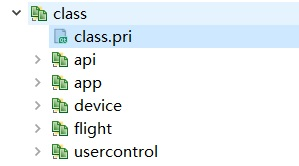
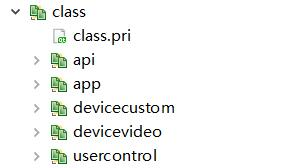
更新说明

diff --git a/snap_video_system/readme.md b/snap_video_system/readme.md
@@ -578,11 +578,9 @@ void QUIStyle::getStyle(QStringList &styleNames, QStringList &styleFiles)
 本系统中将视频显示这块都封装成了一个控件，每个视频控件都有自己独立的悬浮条，悬浮条的位置可以自行修改两三行代码调整，默认悬浮条在顶部，自动拉伸填充显示，你也可以改成左侧右侧等位置显示，高度可调。悬浮条是一排按钮组成，具体按钮什么名称标识符和功能，可以自定义，控件的封装只是默认放了一排按钮，除了关闭按钮实现了功能外，其余都是信号的形式发出去的，具体操作由程序员本身根据不同的厂家来定义不同的功能。
 
 ### 2.14 标签设置
- ![](snap/2-14-1.jpg)
-
 视频控件已经将OSD标签封装好了，默认提供两路OSD设置，每个OSD都可以设置是否启用、位置、文字内容、文字颜色、图片、文字大小等，这些设置都提供了友好的接口设置。
 
-在frmvideopanel.cpp文件中有设置示例，默认注释的，参数含义如下：
+在devicevideosmart.cpp文件中有设置示例，默认注释的，参数含义如下：
 
 1. 设置标签可见：setOSD1Visible
 2. 设置文字大小：setOSD1FontSize
@@ -592,6 +590,13 @@ void QUIStyle::getStyle(QStringList &styleNames, QStringList &styleFiles)
 6. 设置标签位置：setOSD1Position
 
 ```cpp
+widget->setOSD1Visible(true);
+widget->setOSD1FontSize(20);
+widget->setOSD1Text(QString("当前人数: %1").arg(10));
+widget->setOSD1Color(QColor("#D64D54"));
+widget->setOSD1Format(0);
+widget->setOSD1Position(1);
+        
 enum OSDFormat {
     OSDFormat_Text = 0,             //文本
     OSDFormat_Date = 1,             //日期
@@ -1464,10 +1469,8 @@ void DbHelper::getDbDefaultInfo(const QString &dbType, QString &hostPort,
 
 专为无人机打造的模块，也可以作为机器人移动模块，通过传入一个经纬度值，实时更新设备的位置和绘制轨迹，模块已经内置了接口进行处理，支持不同设备不同的轨迹颜色（这个功能好）。
 
-### 9.10 飞行监控
- ![](snap/9-10-1.jpg)
-
-目前放置的是6个飞行套装控件（代码中有8个可以自行添加修改），默认定时器模拟数据，可以自行传入真实的数据会自动显示值。2022年已将此模块移除独立，并不在此系统中。
+### 9.10 备用模块
+此模块留给用户自行填入内容。
 
 ### 9.11 数据调试
  ![](snap/9-11-1.jpg)
@@ -1576,17 +1579,15 @@ void DbHelper::getDbDefaultInfo(const QString &dbType, QString &hostPort,
 | :------ | :------ |
 | api | 存放数据库表映射成对应的全局队列数据、通用的辅助函数类。 |
 | app | 全局配置参数管理类、秘钥管理类、通用函数。 |
-| device | 设备通信管理，比如机器人通信、无人机通信、人工智能处理等。|
-| flight | 飞行套件控件集合。 |
-| usercontrol | 当前系统的自定义控件全部放在这里，其中包括云台仪表盘、通用视频监控等控件。 |
+| devicecustom | 用户自定义设备通信管理，比如机器人通信、无人机通信等。|
+| devicevideo | 视频监控相关处理类，包括设备地图、表格消息、线程UI通信、人工智能处理等。 |
+| usercontrol | 当前系统的自定义控件全部放在这里，其中包括云台仪表盘、天气面板等控件。 |
 
 ##### 11.3.2.1 模块-api
 | 名称 | 说明 |
 | :------ | :------ |
 | dbdata | 将数据库表映射到全局变量数据队列，比如将摄像机表ipcinfo转成QStringList存放一行行数据，这样在程序中运算比较速度极快，直接内存比较，不用每次都去读取数据库。 |
 | dbquery | 所有的数据库查询插入更新等操作都在这里，比如查询摄像机表、插入日志记录等。 |
-| savelog | 日志钩子类，将系统中所有的打印信息转为日志存储或者输出到网络等，本系统目前没有用到，后期可以开启用来打印输出日志信息。 |
-| saveruntime | 保存运行时间类，用来存储系统启动后每隔一段时间就输出一条记录用来记录启动后软件运行了多久，方便分析问题。 |
 
 ##### 11.3.2.2 模块-app
 | 名称 | 说明 |
@@ -1594,45 +1595,46 @@ void DbHelper::getDbDefaultInfo(const QString &dbType, QString &hostPort,
 | appconfig | 配置参数类，整个系统的配置参数存放在ini文件中，跨平台，所有参数都对应一个变量，读取配置参数的时候将值赋值给变量，写入的时候将变量值写入到配置文件。 |
 | appdata | 全局变量类，系统中无可避免需要一些全局变量方便处理，都放在此类，比如版本号、录像机类型、摄像机类型、当前用户信息、地图宽度高度、左侧右侧顶部底部宽高等。 |
 | appevent | 全局事件转发类，系统越复杂信号需要传递的层级越多，所以需要一个全局事件转发类，用来中转这些事件，这样永远只需要两层就可以收到信号进行处理，而且整个系统看起来干净整洁，不会说一个信号传递到了N个地方乱七八糟，建议需要跨层级传递的信号都放在这里中转。比如软件退出信号，可能多个界面需要收到退出信号进行保存和其他处理，如果从关闭界面发出信号传递给需要的界面，那不知道要中间层层传递多少次，有了这个全局事件转发类，你只需要将事件传给appevent，需要接收事件的地方关联这个信号就行，appevent为全局单例类，整个系统唯一。通用的一些信号有软件退出、全局样式改变、主窗体变化（0-最小化 1-最大化 2-恢复 3-关闭 4-移动 5-尺寸变化）等。 |
-| appfun | 通用辅助函数处理，比如系统重启、导入导出数据、校验权限等。 |
 | appinit | 程序初始化类，在main函数中，会先执行这个初始化的类，比如初始化皮肤、字体、数据库、样式等操作，这些都是要优先在窗体加载前执行的，执行完毕以后再打开窗体主界面。 |
-| appkey | 秘钥管理类，指定校验秘钥文件，可设置运行时间、设备数量等限制，支持根据硬件指纹特征生成机器码文件等。 |
-| appnav | 菜单导航管理类，用来控制和显示顶部导航栏、左侧导航栏的样式。很多子界面需要用到，所以封装成一个专门管理这个的类。 |
 | appstyle | 全局样式管理类，整个系统的样式全部放在这里，一般加载流程是先读取样式表文件，然后将本系统独特的样式（比如开关按钮、视频监控、云台仪表盘）内容追加到后面，最后统一设置全局样式，在main函数中加载，和appinit类一样放在最前面执行。 |
+| appurl | 视频监控系统中常用的默认的视频地址集合。 |
 
-##### 11.3.2.3 模块-device
+##### 11.3.2.3 模块-devicecustom
+| 名称 | 说明 |
+| :------ | :------ |
+| devicerobot | 机器人串口通信管理类。 |
+| devicerobot2 | 机器人串口通信管理类2，有串口数据转发功能。 |
+| deviceuavsserver | 无人机后端服务类，当前为空，用户自己添加。 |
+| deviceuavsvideo | 无人机视频监控类，将视频控件设置过来，然后就可以将自己人工智能算法处理后的图片传过来进行绘制，类似于实时视频效果。 |
+
+##### 11.3.2.4 模块-devicevideo
 | 名称 | 说明 |
 | :------ | :------ |
 | devicehelper | 整个系统设备管理辅助类，比如插入窗口消息、加载设备列表、加载图片地图、加载设备按钮、初始化视频控件等。 |
 | devicemap | 设备图片地图管理类，相当于一次性加载所有图片到内存，当要切换或者显示的时候，直接从内存取出来设置即可，速度极快，瞬间相应，纯粹是为了加快相应速度以及可能在图片上进行绘制增加的功能，比从文件系统读取图片文件显示快N倍。 |
 | deviceonvif | 设备onvif通信管理类，比如获取当前选中通道的onvif地址、开启事件订阅、校对时间、重启设备、获取视频参数、设置视频参数、云台控制等，这里是具体的需要和摄像机信息表及视频通道关联的处理，所以不能放到通用的onvif模块中。 |
-| devicerobot | 机器人串口通信管理类。 |
-| devicerobot2 | 机器人串口通信管理类2，有串口数据转发功能。 |
-| devicesmart | 人工智能处理类，最常见的应用就是设置一个视频控件，然后在视频控件上绘制人脸框、文字信息等，比如设备的实时运行状态。 |
-| deviceuavsvideo | 无人机视频监控类，将视频控件设置过来，然后就可以将自己人工智能算法处理后的图片传过来进行绘制，类似于实时视频效果。 |
-
-##### 11.3.2.4 模块-flight
-飞控套件集合，具体代码不做过多说明，目前是独立模块，具体可购买自定义控件大全参见演示示例。
+| devicethreadui | 演示线程通知UI更新，包括每隔一段时间插入消息、异步调用添加表格消息和图文警情、设备GPS移动、报警闪烁、指定通道编号设置视频和通道交换等。 |
+| devicevideosmart | 人工智能处理类，最常见的应用就是设置一个视频控件，然后在视频控件上绘制人脸框、文字信息等，比如设备的实时运行状态。 |
 
 ##### 11.3.2.5 模块-usercontrol
 | 名称 | 说明 |
 | :------ | :------ |
 | gaugecloud | 云台仪表盘控件。 |
-| squarelayout | 正方形布局控件，所有飞机控件都需要用这个布局，不然控件拉伸扁平很难看。 |
-| videobox | 视频监控盒子控件，用于统一管理视频监控主界面，包括通道切换等。 |
-| videoplayback | 视频回放控件。 |
-| videowidget | 通用视频播放控件。 |
+| cityhelper | 省市县联动类，通过从json文件读取省市县信息。 |
+| weather | 城市天气类，最后显示在标题栏上，实时显示设置的城市的最近几天的天气。 |
 | widgetsound | 声音面板控件，主界面右下角单击弹出音量条。 |
 
 #### 11.3.3 核心通用类库
  ![](snap/11-3-3-1.jpg)
 
 这里放的全部是个人一直持续更新完善的独创的轮子，所有的项目都公用这些轮子，用到哪个就包含哪个进来，更新只需要更新轮子代码就行。
+
 视频监控系统包含的轮子超级丰富给力，物超所值，涵盖了数据导出模块、数据库应用、视频监控、ONVIF通信、TCP文件传输、地图应用、通用浏览器内核等。
 
 | 名称 | 说明 |
 | :------ | :------ |
-| core_control | 通用自定义控件，很多系统经常用到的控件全部放在这里。 |
+| core_common | 通用函数，包括通用秘钥、通用导航、通用样式、声音播放、日志记录、运行时间记录等。 |
+| core_control | 通用自定义控件，很多系统经常用到的控件全部放在这里，比如开关按钮、设备容器、设备按钮、颜色下拉框等。 |
 | core_dataout | 数据导入导出到xls/pdf和打印类库，极速、跨平台、无依赖。 |
 | core_db | 数据库通用类库比如数据库线程管理、数据清理、数据采集等。 |
 | core_ffmpeg | 视频监控内核ffmpeg版本，本系统默认采用的内核。 |
@@ -1647,21 +1649,32 @@ void DbHelper::getDbDefaultInfo(const QString &dbType, QString &hostPort,
 | core_video | 通用的视频监控管理类，封装了通用的视频控件和多通道统一管理。 |
 | core_webview | 通用浏览器控件类，同时支持webkit、wenengine、miniblink三种内核，打通了所有的Qt版本。 |
 
-##### 11.3.3.1 模块-core_control
+##### 11.3.3.1 模块-core_common
+| 名称 | 说明 |
+| :------ | :------ |
+| base64helper | 图片及文字和base64编码之间转换的类。 |
+| commonkey | 通用秘钥管理类，指定校验秘钥文件，可设置运行时间、设备数量等限制，支持根据硬件指纹特征生成机器码文件等。 |
+| commonnav | 通用菜单导航管理类，用来控制和显示顶部导航栏、左侧导航栏的样式。很多子界面需要用到，所以封装成一个专门管理这个的类。 |
+| commonstyle | 通用样式管理类，比如Qt自带类窗体样式、自定义控件样式、分页导航样式、导航按钮样式、开关按钮样式等。相当于将多个项目常用的自定义样式封装一起做成通用。 |
+| framelesswidget2 | 无边框窗体拉伸类，边框四周八个方位都可以自由拉伸，可设置是否允许拖动和拉伸。 |
+| playwav | 声音文件播放类，通用Qt456，自动识别当前Qt版本使用对应的类，Qt4采用QSound，Qt5以上采用QSoundEffect，嵌入式采用对应的命令行aplay、mpv来播放。 |
+| savelog | 日志钩子类，将系统中所有的打印信息转为日志存储或者输出到网络等，可以开启用来打印输出日志信息。 |
+| saveruntime | 保存运行时间类，用来存储系统启动后每隔一段时间就输出一条记录用来记录启动后软件运行了多久，方便分析问题。 |
+
+##### 11.3.3.2 模块-core_control
 | 名称 | 说明 |
 | :------ | :------ |
 | bottomwidget | 通用底部状态栏控件，可以设置软件名称、版本号、运行时间等。 |
 | colorcombobox | 颜色下拉框控件，在系统设置中有。 |
 | cpumemorylabel | CPU和内存使用情况标签控件，主界面右上角显示。 |
 | customtitlebar | 停靠窗体自定义标题栏控件。 |
-| devicebutton | 设备按钮控件，比如图片地图模块中用到，可设置不同的图标样式和状态等，双击发出信号进行相应处理比如弹出对应视频预览等。 |
-| framelesswidget | 无边框窗体管理类，无边框拖动+拉伸，主界面就用到了这个类。 |
+| devicebutton | 设备按钮控件，比如图片地图模块中用到，可设置不同的图标样式和状态等，双击发出信号进行相应处理比如弹出对应窗体等。 |
 | lcddatetime | 软件右上角显示时间的控件。 |
 | panelwidget | 面板容器控件，主界面子模块表格消息，就用到此控件，用于将一堆widget放到此容器进行管理，自动形成滚动条等。 |
 | switchbutton | 开关按钮控件，在系统设置中存在大量该控件。 |
 | xslider | 滑动条控件，在原有滑动条基础上增加了鼠标按下立即定位等。 |
 
-##### 11.3.3.2 模块-core_dataout
+##### 11.3.3.3 模块-core_dataout
 | 名称 | 说明 |
 | :------ | :------ |
 | datacreat | 通用数据报表内容创建类，比如生成表格格式的html内容，然后赋值给dataprint直接打印，里面举例了图文混排的报告内容，后期会不断增加其他模板，也可以自行增加其他模板数据。 |
@@ -1671,7 +1684,7 @@ void DbHelper::getDbDefaultInfo(const QString &dbType, QString &hostPort,
 | dataprint | 数据打印到pdf及纸张，支持多线程。 |
 | dataxls | 数据导出到xls类，支持多线程导出。 |
 
-##### 11.3.3.3 模块-core_db
+##### 11.3.3.4 模块-core_db
 | 名称 | 说明 |
 | :------ | :------ |
 | dbcleanthread | 自动清理数据线程类。 |
@@ -1684,7 +1697,7 @@ void DbHelper::getDbDefaultInfo(const QString &dbType, QString &hostPort,
 | dbpagemodel | 数据库翻页类数据模型。 |
 | navpage | 分页导航控件。 |
 
-##### 11.3.3.4 模块-core_ffmpeg
+##### 11.3.3.5 模块-core_ffmpeg
 | 名称 | 说明 |
 | :------ | :------ |
 | ffmpegconvert | 各种转换处理函数封装。 |
@@ -1696,14 +1709,14 @@ void DbHelper::getDbDefaultInfo(const QString &dbType, QString &hostPort,
 | ffmpegwidget | 视频显示窗体类，解码后到这里显示，依赖ffmpegthread。 |
 | videoffmpeg | 多通道管理类。 |
 
-##### 11.3.3.5 模块-core_map
+##### 11.3.3.6 模块-core_map
 | 名称 | 说明 |
 | :------ | :------ |
 | echartjs | echart模块中用到的json文件转js文件，获取js文件中的名字和经纬度等处理。 |
 | echarts | echart封装类，可加载仪表盘、闪烁点图、迁徙图、世界地图、区域地图等，每个点可自定义颜色和提示信息等。 |
 | mapbaidu | 百度地图封装类，支持在线和离线两种模式。 |
 
-##### 11.3.3.6 模块-core_onvif
+##### 11.3.3.7 模块-core_onvif
 | 名称 | 说明 |
 | :------ | :------ |
 | onvifbase | 基础类，用于获取设备信息、服务文件地址、能力文件地址、媒体文件地址、视频流地址等。 |
@@ -1720,7 +1733,7 @@ void DbHelper::getDbDefaultInfo(const QString &dbType, QString &hostPort,
 | onvifservices | 服务类，用于获取媒体地址、云台地址等。 |
 | onvifsnap | 图片抓拍实现类，包括获取抓图地址、抓拍图片等。 |
 
-##### 11.3.3.7 模块-core_opengl
+##### 11.3.3.8 模块-core_opengl
 | 名称 | 说明 |
 | :------ | :------ |
 | openglhead | 当前组件通用头文件。 |
@@ -1729,22 +1742,52 @@ void DbHelper::getDbDefaultInfo(const QString &dbType, QString &hostPort,
 | yuvglwidget | 继承自QGLWidget的YUV格式OPENGL绘制窗体。 |
 | yuvopenglwidget | 继承自QOpenGLWidget的YUV格式OPENGL绘制窗体。 |
 
-##### 11.3.3.8 模块-core_qui
+##### 11.3.3.9 模块-core_form
+ ![](snap/8-3-3-6.jpg)
+
 | 名称 | 说明 |
 | :------ | :------ |
-| iconfont | 图形字体类，对应阿里巴巴的图形字体文件，系统中大量运用，将字体中的值转成图片显示。 |
-| iconhelper | 图形字体类，对应国际开源的fontawesome图形字体。 |
+| formhelper | 封装的导入导出、导出数据到xls/pdf和打印数据、自动备份数据、保存最后打开的文件夹等。 |
+| frmconfigdb | 通用数据库管理界面类，可选不同的数据库类型，填入用户信息，执行检测连接和初始化数据操作。 |
+| frmconfiguser | 通用用户管理界面类，可添加、删除、修改用户信息，包括权限分配等，可导入导出打印用户信息。 |
+| frmlogin | 通用用户登录界面类，包括自动登录和记住密码复选框，多次密码错误校验，记住当前用户信息等。三次错误关闭，下拉可选用户，内置超级密码。 |
+| frmlogout | 通用用户退出界面类，三次错误关闭，下拉可选用户，内置超级密码。 |
+| userhelper | 通用用户权限管理类，内置7种类型权限，对应权限名称可自定义，一般在用户切换对应界面或者单击了对应功能按钮的时候触发。 |
+
+##### 11.3.3.10 模块-core_qui
+ ![](snap/8-3-3-7.jpg)
+
+本组件涵盖的功能较多，所以采用了分层管理代码结构。
+
+| 名称 | 说明 |
+| :------ | :------ |
+| iconhelper | 万能图形字体类，可传入多种图形字体文件，一个类通用所有图形字体。 |
 | quiconfig | 存储当前组件的配置参数信息，比如全局的字体名称、字号、无边框窗体的最小化最大化关闭等图标、样式表的颜色值。 |
-| quidateselect | 自定义日期范围选择对话框。 |
 | quihead | 当前组件通用头文件。 |
-| quihelper | 项目通用辅助类，各种常用函数的封装，比如获取当前屏幕分辨率、设置字体、设置编码、加载翻译文件、各种进制数据转换、弹出各种对话框、设置延时时间等。 |
+| quistyle | 当前组件通用样式设置管理类，可以指定枚举类型样式、传入样式内容设置、获取样式表文件对应的颜色值等。当前组件样式相关的处理函数都放在这里，统一管理。 |
+
+| 名称 | 说明 |
+| :------ | :------ |
+| quiabout | 关于系统对话框，可传入软件标题、版本、版权、网址等信息。 |
+| quidateselect | 自定义日期范围选择对话框。 |
 | quiinputbox | 自定义输入框窗体，可指定不同的输入类型比如文本框、下拉框等。 |
 | quimessagebox | 自定义信息消息框窗体，可设置关闭倒计时，不同的类型比如信息框、询问框、错误框等。 |
-| quistyle | 当前组件通用样式设置管理类，可以指定枚举类型样式、传入样式内容设置、获取样式表文件对应的颜色值等。当前组件样式相关的处理函数都放在这里，统一管理。 |
+| quisplash | 自定义弹出提示信息，提示完自动消息关闭。 |
 | quitipbox | 自定义右下角信息对话框，可设置对齐方式、关闭倒计时等。 |
 | quiwidget | 自定义无边框窗体，可设置标题，各种图标等。 |
 
-##### 11.3.3.9 模块-core_tcpfile
+| 名称 | 说明 |
+| :------ | :------ |
+| quihelper | 项目通用辅助类，各种常用函数的封装，比如获取当前屏幕分辨率、设置字体、设置编码、加载翻译文件、各种进制数据转换、弹出各种对话框、设置延时时间等。 |
+| quihelpercore | 获取当前桌面分辨率，设置编码、字体、翻译文件等。 |
+| quihelperdata | 16进制、2进制、10进制互相转换，16进制字符串、字节数组互相转换，字节数组转int和short，CRC校验等。 |
+| quihelperfile | 选择文件、保存文件、选择目录等对话框，复制文件、删除文件等。 |
+| quihelperform | 设置无边框窗体、边框阴影，弹出信息框、错误框、询问框、日期选择框、关于对话框、中间提示框等。 |
+| quihelperimage | 获取等比例缩放图片，通用设置logo图片，支持资源文件、本地图片、图形字体、svg自动变色等多种形式。 |
+| quihelpernet | 获取本机IP地址集合，获取外网IP地址，判断IP、MAC等是否合法，下载网络文件，IP地址字符串与整型互相转换。 |
+| quihelperother | 初始化数据库文件，设置系统时间、开机启动，设置图标到按钮，写入临时消息的文本文件等。 |
+
+##### 11.3.3.11 模块-core_tcpfile
 | 名称 | 说明 |
 | :------ | :------ |
 | tcpfilehead | 当前组件通用头文件。 |
@@ -1754,13 +1797,13 @@ void DbHelper::getDbDefaultInfo(const QString &dbType, QString &hostPort,
 | tcpsearchfileserver | 搜索文件服务类，目前没用，用于接收请求搜索文件是否存在。 |
 | tcpsendfilethread | 发送文件线程类，按照 文件开始符+文件大小+文件内容+文件结束符 逐个分包发送，可对文件的每个包进行加密传输。 |
 
-##### 11.3.3.10 模块-core_video
+##### 11.3.3.12 模块-core_video
 | 名称 | 说明 |
 | :------ | :------ |
 | commonvideomanage | 通用视频管理类，比如定时器排队打开视频、排队重连视频，可设置超时时间、打开间隔、重连间隔等。 |
 | commonvideowidget | 通用视频控件类，视频监控系统支持多种内核，每种内核对应的视频控件接口一样，根据预定义关键字识别具体的视频控件类，搞个通用的视频控件类，就不用每个用到该控件的代码文件去挨个判断预定义变量生成对应的视频控件，很大减少重复冗余代码量。 |
 
-##### 11.3.3.11 模块-core_webview
+##### 11.3.3.13 模块-core_webview
 | 名称 | 说明 |
 | :------ | :------ |
 | webcore.pri | 通用的根据不同的Qt版本、不同的编译器环境、不同的操作系统，加载对应的浏览器内核模块和定义不同的变量。 |
@@ -1817,7 +1860,9 @@ void DbHelper::getDbDefaultInfo(const QString &dbType, QString &hostPort,
 | 名称 | 说明 |
 | :------ | :------ |
 | frmdemo | 单独的功能演示示例主窗体，加载多个子界面比如视频控件等。 |
+| frmdemoqui | 通用辅助示例，主要演示qui通用组件中封装的函数如何使用，比如各种消息框、提示框等。 |
 | frmdemovideoimage | 视频图片示例，从图片文件夹读取图片集合，定时器绘制取出图片发给视频控件绘制。 |
+| frmdemovideoplus | 视频叠加示例，多个视频控件叠加在一起同时播放，可以设置在四个角落位置。 |
 | frmdemovideosave | 视频保存示例，演示如何对视频控件进行视频保存，可动态保存。 |
 | frmdemovideowidget | 视频控件示例，演示视频控件如何使用。 |
 
@@ -1870,14 +1915,7 @@ void DbHelper::getDbDefaultInfo(const QString &dbType, QString &hostPort,
 | frmrobotemulate | 运动仿真模块，预留给用户实现，一般放个3D效果。 |
 | frmrobotlog | 机器人实时数据模块，预留给用户实现。 |
 
-##### 11.3.4.9 模块-frmuavs
-| 名称 | 说明 |
-| :------ | :------ |
-| frmuavsflight | 飞行套件控件面板，放了多个飞行仪表，默认自动模拟数据，可以传入对应数据显示。 |
-| frmuavsimage | 图像增强模块，预留给用户实现。 |
-| frmuavspanel | 飞行监控面板。 |
-
-##### 11.3.4.10 模块-frmvideo
+##### 11.3.4.9 模块-frmvideo
 | 名称 | 说明 |
 | :------ | :------ |
 | frmvideo | 视频回放模块主界面，堆栈窗体形式，加载多个子界面比如本地回放、远程回放、设备播放等。 |
@@ -1890,10 +1928,8 @@ void DbHelper::getDbDefaultInfo(const QString &dbType, QString &hostPort,
 | frmvideopreview | 视频预览窗体，比如图片或者地图上双击设备弹出的视频预览，可以多个，关闭的时候自动释放资源。 |
 | frmvideoupload | 视频上传，将本地存储的视频文件上传到服务器。 |
 
-
 ## 12 二次开发说明
-### 12.1 开发环境搭建
-#### 12.1.1 常规通用步骤
+### 12.1 通用开发环境搭建
 1. 第一步：安装系统，推荐用vmware虚拟机。
 2. 第二步：安装qt环境，可以直接用官方下载的run安装包安装，有些要求用命令行安装。
 3. 第三步：写个空白窗体程序测试下是否环境正常。
@@ -1901,23 +1937,46 @@ void DbHelper::getDbDefaultInfo(const QString &dbType, QString &hostPort,
 5. 第五步：打开video_system.pro项目进行编译。
 6. 第六步：打包发布，为了发布方便，推荐用静态编译的Qt+静态编译的ffmpeg，这样打包发布很清爽，就一个可执行文件。
 
-#### 12.1.2 windows+mingw
+### 12.2 不同系统注意事项
 
-#### 12.1.3 windows+msvc
+### 12.3 监控系统组件示例
+本系统功能比较多，封装了多个控件，尤其是核心的视频监控控件，所以特意安排了独立的使用示例演示如何使用，可以在main函数找到 AppConfig::IndexStart = 0; 改成AppConfig::IndexStart = 1;即可，这样编译运行的是监控系统组件示例。
 
-#### 12.1.4 linux+ubuntu
+#### 12.3.1 通用辅助
+ ![](snap/12-3-1.jpg)
 
-#### 12.1.5 linux+deepin
+演示通用组件比如qui封装的类的使用。
+- 弹出信息框
+- 弹出错误框
+- 弹出询问框
+- 带自动关闭倒计时
+- 弹出右下角信息框
+- 隐藏右下角信息框
+- 弹出时间选择框
+- 弹出中间提示信息
+- 弹出关于对话框
 
-#### 12.1.6 linux+centeros
+#### 12.3.2 视频图片
+ ![](snap/12-3-2.jpg)
 
-#### 12.1.7 linux+uos
+演示加载图片文件夹，进行图片序列的播放。
 
-#### 12.1.8 linux+银河麒麟
+#### 12.3.3 视频控件
+ ![](snap/12-3-3.jpg)
 
-### 12.2 通用模块使用
+演示通用视频控件如何使用，包括打开、关闭、暂停、继续、截图、自动抓拍等功能。
 
-### 12.3 人工智能集成
+#### 12.3.4 视频存储
+ ![](snap/12-3-4.jpg)
+
+演示视频控件如何存储视频文件到本地，单击开始按钮开始存储视频，单击关闭则关闭存储。
+
+#### 12.3.5 视频叠加
+ ![](snap/12-3-5.jpg)
+
+演示如何用多个视频控件做视频叠加播放，可以设置叠加的位置在四个角落。
+
+### 12.4 人工智能集成
 
 
 ## 13 其他说明
